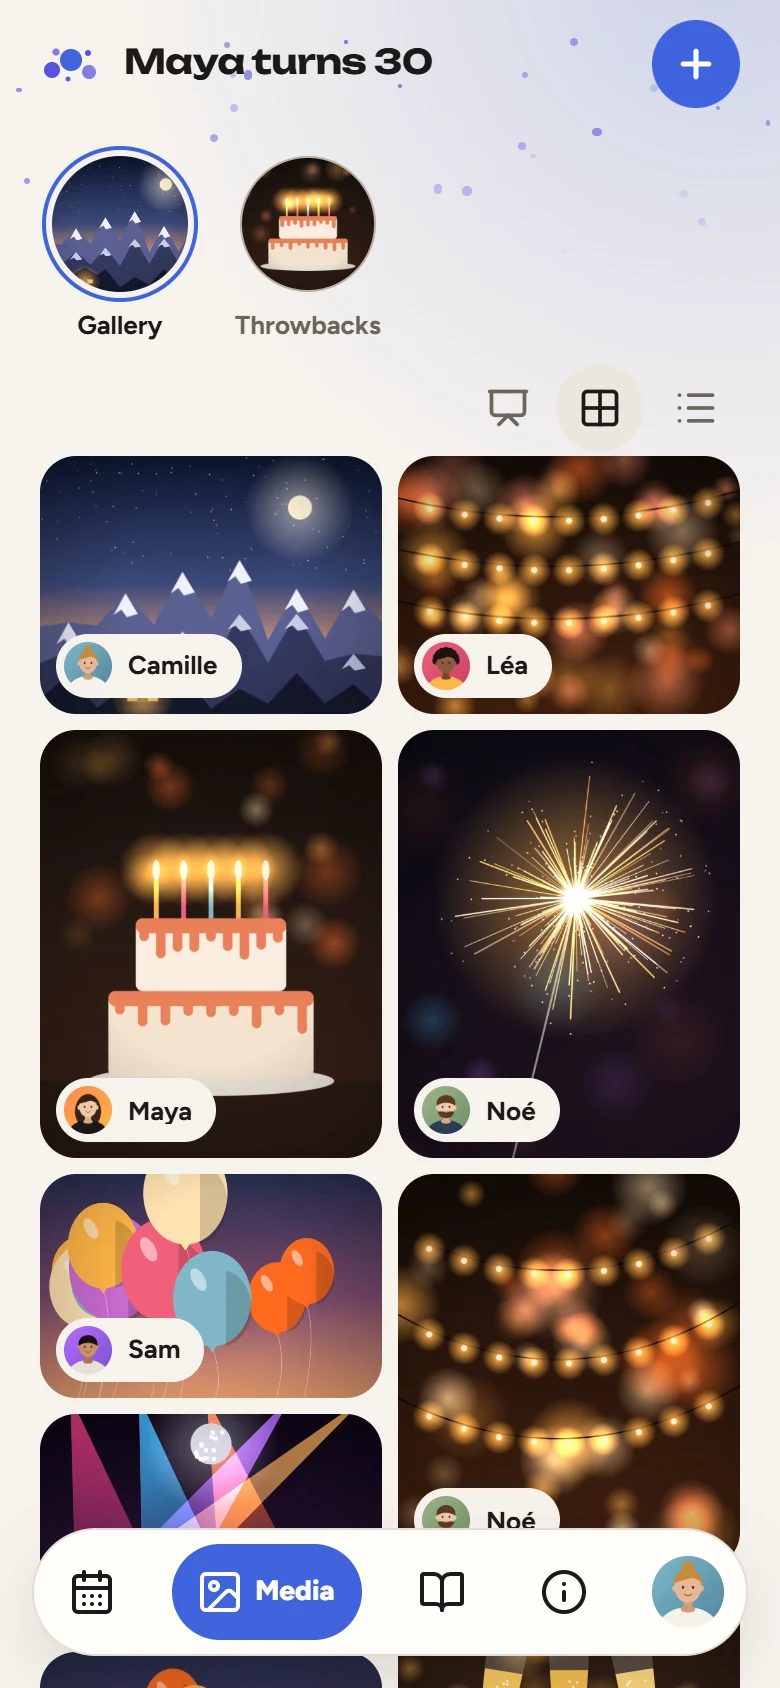
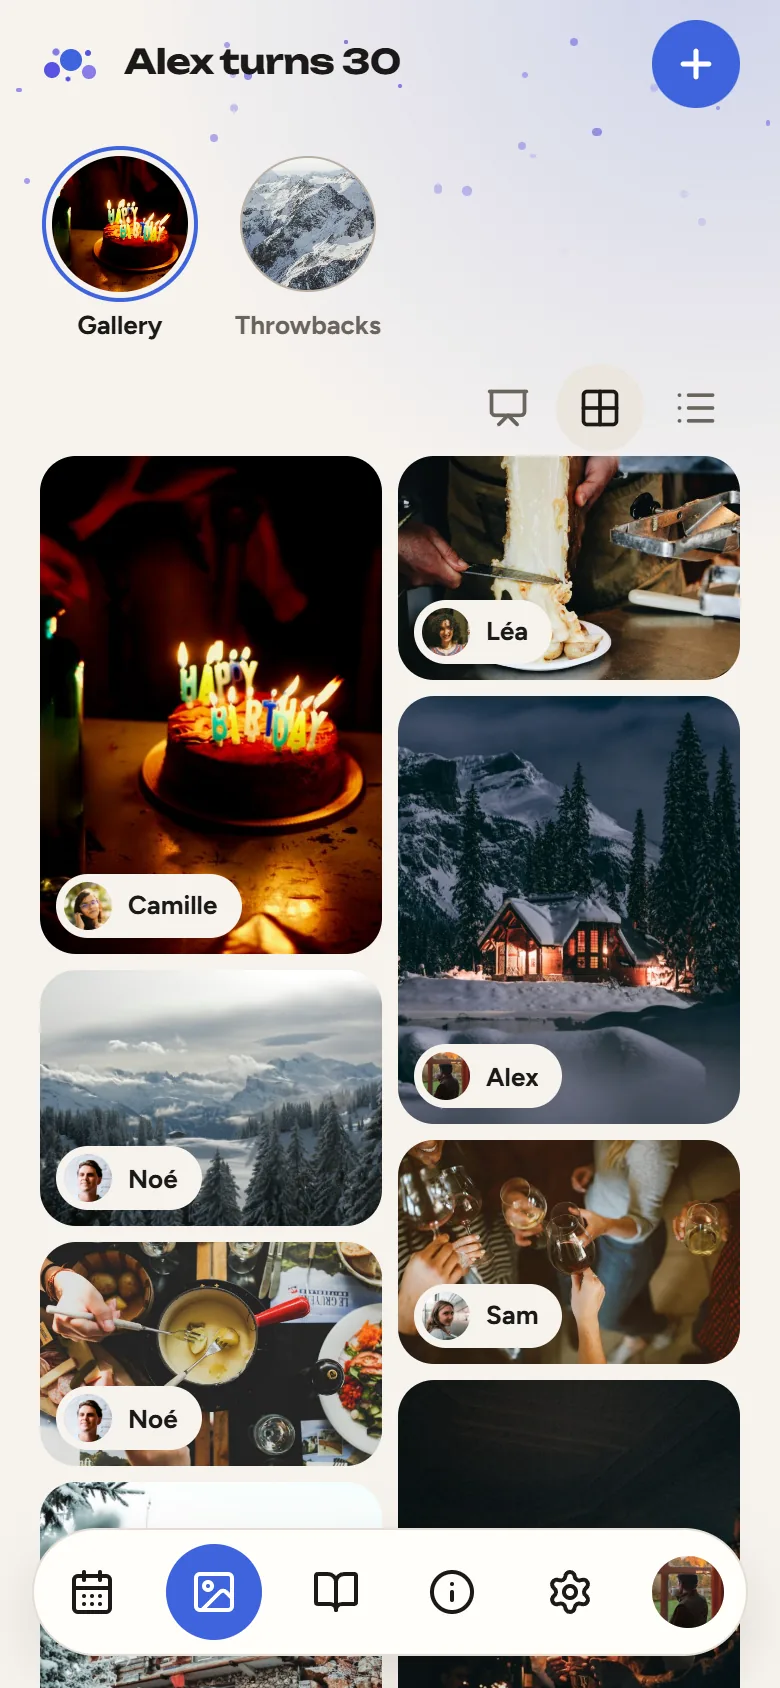
Retake the README screenshots with real photos and Alex as host
The demo party is now Alex's: the screenshots are taken signed in as Alex, guests have real portraits, and the gallery mixes the chalet, the cake, raclette, fondue and toasts with mountain views. The vote asks who has the most hilarious costume and No Filter shows the new flow with sillier questions. The photos come from Unsplash, which the footnote now says.

diff --git a/README.md b/README.md
@@ -21,7 +21,7 @@ designed to be modular, reusable and highly customizable!
 
 <p align="center">
   <img src="docs/screenshots/vote.webp" width="32%" alt="A vote on guests, with their photos and live counts">
-  <img src="docs/screenshots/no-filter.webp" width="32%" alt="No Filter: anonymous questions ranked by upvotes, two jokers left">
+  <img src="docs/screenshots/no-filter.webp" width="32%" alt="No Filter as the host: anonymous questions ranked by upvotes, with the answered and joker actions">
   <img src="docs/screenshots/werewolf-role.webp" width="32%" alt="Werewolf at night: a player's own role and the list of the dead">
 </p>
 
@@ -35,7 +35,7 @@ There are no accounts: the host adds guests and sends each one their link. The
 app follows the phone's language (French, English, German, Italian or Spanish),
 and the photos and messages stay on the server it runs on.
 
-<sub>The screenshots show a made-up party; its photos and portraits are drawings made for the demo.</sub>
+<sub>The screenshots show a made-up party; its photos and portraits come from <a href="https://unsplash.com">Unsplash</a>.</sub>
 
 ## Trying it
 
